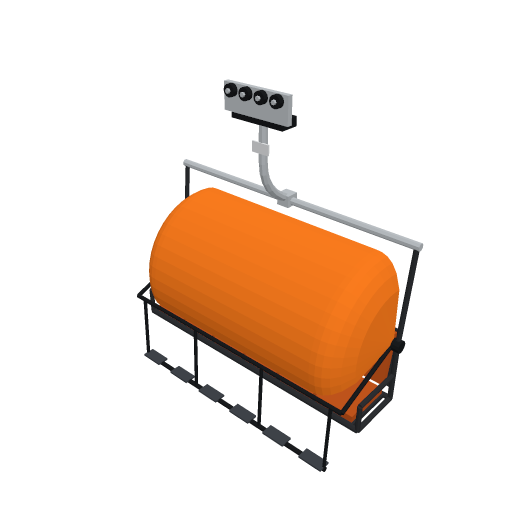
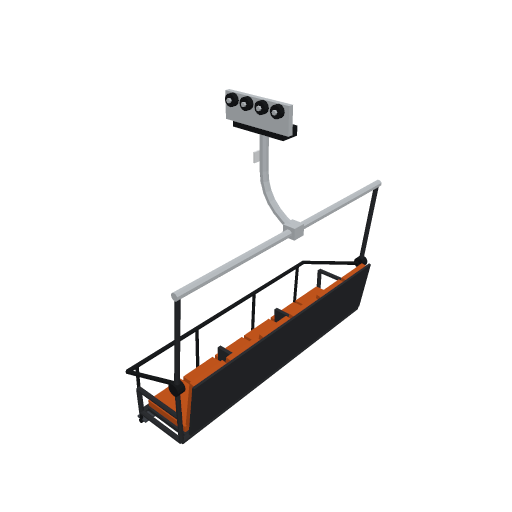
Chairlift chair: seats across the rope, open chair by default
The chair was drawn with its seat row along the rope, a quarter turn out in
the game and the line preview. The chair and its hanger are now turned by
CHAIR_TURN so the riders face the travel (-x) and the seats line up across
the rope; the grip stays along it. The full model and the LOD both turn.
The default cover is now the open chair; the bubble stays a variant.

Regression test in test/chairlift.test.ts; the station test now expects the
wide chair to wait ahead of the wheel when it shuttles alone.

Claude-Session: https://claude.ai/code/session_01BW4qmUZf5drkEb4BvBWvz4

Changed region(s): [[0.25, 0.1562, 0.8438, 0.9375]]

diff --git a/generator/cableCabins.ts b/generator/cableCabins.ts
@@ -17,7 +17,8 @@
 //
 // The chairlift chair is a new design with no webapp reference: its rope runs
 // along x through the grip at y 3.60 and its seat top is at 0.62, whatever the
-// seat count or cover (CHAIR).
+// seat count or cover (CHAIR). Its seats run across the rope (along z), the
+// riders facing -x, the way the game carries a cabin (CHAIR_TURN).
 //
 // The tramway car is authored ACROSS its length (long axis z, the webapp's yaw
 // is 90); the gondola's rope runs along x (yaw 0). Units are metres; every
@@ -419,8 +420,11 @@ export function gondolaCabin(): MeshBuilder {
 // the chairlift chair
 
 /**
- * The chair's datums and frame, metres. The rope runs along x through the grip
- * at `rope`; the riders sit facing +z on cushions whose top is `seat`; `pitch`
+ * The chair's datums and frame, metres, as the chair is drawn: the riders sit
+ * facing +z on cushions whose top is `seat`, the seats side by side along x,
+ * and CHAIR_TURN then turns it a quarter so they face the travel. The grip on
+ * the rope is drawn in the model's own frame: the rope runs along x through it
+ * at `rope`. `pitch`
  * is the width of one seat place. The bubble cover turns about the pivot axis
  * (y, z) = (`pivotY`, `pivotZ`) and reaches `bubbleR` from it.
  */
@@ -441,6 +445,13 @@ export const CHAIR = {
   backZ: -0.3,
 };
 
+/**
+ * The chair's frame to the model's: a quarter turn about y that takes the riders'
+ * +z to -x, so they face the travel (the game runs a cabin with its +x along
+ * -travel) and the seats line up across the rope. A rotation: faces stay wound outward.
+ */
+export const CHAIR_TURN = ([x, y, z]: Vec3): Vec3 => [-z, y, x];
+
 /** The cover and seat colours of each `color` value: the photo's orange first. */
 const CHAIR_COLOURS: Record<string, { cover: string; seat: string }> = {
   orange: { cover: "#f0761c", seat: "#b8501a" },
@@ -457,8 +468,8 @@ export const CHAIRLIFT_PARAMS: readonly ParamSpec[] = [
     values: [{ value: "6", title: "Six-seater" }, { value: "4", title: "Four-seater" }, { value: "8", title: "Eight-seater" }],
   },
   {
-    name: "cover", title: "Cover", default: "bubble",
-    values: [{ value: "bubble", title: "Weather bubble" }, { value: "none", title: "Open chair" }],
+    name: "cover", title: "Cover", default: "none",
+    values: [{ value: "none", title: "Open chair" }, { value: "bubble", title: "Weather bubble" }],
   },
   {
     name: "color", title: "Colour", default: "orange",
@@ -588,7 +599,7 @@ function chairBody(m: MeshBuilder, seats: number, bubble: boolean): void {
 /** The hanger from the beam over the chair up to the detachable grip on the rope. */
 function chairHanger(m: MeshBuilder): void {
   const r = CHAIR.rope;
-  m.scope("arm", () => {
+  m.scope("arm", () => m.moved(CHAIR_TURN, () => {
     // straight down from the grip, then bent back over the riders' heads to the beam
     // (a quadratic curve from the vertical at y 3.0 to the beam, as six straight lengths)
     const top: [number, number] = [3.0, 0];
@@ -608,8 +619,8 @@ function chairHanger(m: MeshBuilder): void {
       bar(m, "steel", p, [0, q[1] + (q[1] - p[1]) * k, q[2] + (q[2] - p[2]) * k], 0.05, 8);
     }
     m.prism("steel", rect(0.16, 0.16, 0, CHAIR.beamZ), CHAIR.beamY - 0.06, CHAIR.beamY + 0.08);
-  });
-  m.scope("number plate", () => block(m, "white", -0.11, 0.11, 3.1, 3.22, 0.035, 0.055));
+  }));
+  m.scope("number plate", () => m.moved(CHAIR_TURN, () => block(m, "white", -0.11, 0.11, 3.1, 3.22, 0.035, 0.055)));
   m.scope("grip", () => {
     m.scope("body", () => block(m, "trim", -0.34, 0.34, r - 0.17, r - 0.065, -0.11, 0.11));
     m.scope("jaws", () => {
@@ -634,7 +645,7 @@ export function chairliftChair(params?: ParamValues): MeshBuilder {
     seat: { color: colours.seat, metallic: 0.02, roughness: 0.75 },
     frame: { color: "#2b2d30", metallic: 0.3, roughness: 0.5 },
   });
-  m.scope("body", () => chairBody(m, Number(p.seats), p.cover === "bubble"));
+  m.scope("body", () => m.moved(CHAIR_TURN, () => chairBody(m, Number(p.seats), p.cover === "bubble")));
   m.scope("hanger", () => chairHanger(m));
   return m;
 }
@@ -713,7 +724,7 @@ export function chairliftChairLod(params?: ParamValues): MeshBuilder {
       frame: { color: "#2b2d30", metallic: 0.3, roughness: 0.5 },
     },
     parts: [
-      { draw: (m) => {
+      { draw: (m) => m.moved(CHAIR_TURN, () => {
         // the seat and the backrest, the cushions' colour in front, the shell behind
         lodBlock(m, -hw, hw, frameY - 0.02, CHAIR.seat, backZ, frontZ, { side: "seat", bottom: "seat" });
         const b0: Vec3 = [0, CHAIR.seat + 0.03, backZ + 0.03];
@@ -726,16 +737,17 @@ export function chairliftChairLod(params?: ParamValues): MeshBuilder {
         lodBar(m, "steel", [-sx - 0.04, beamY, beamZ], [sx + 0.04, beamY, beamZ], 0.06, 3);
         lodBar(m, "steel", [0, CHAIR.rope - 0.14, 0], [0, 2.75, 0], 0.07, 3);
         lodBar(m, "steel", [0, 2.8, 0.03], [0, beamY, beamZ], 0.07, 3);
-        lodBlock(m, -0.42, 0.42, CHAIR.rope - 0.17, CHAIR.rope + 0.2, -0.11, 0.13, { side: "trim", bottom: "trim" });
         // the footrest, its underside on the ground line
         lodBar(m, "trim", [-hw + 0.1, 0.04 * Math.SQRT1_2, 0.66], [hw - 0.1, 0.04 * Math.SQRT1_2, 0.66], 0.04);
-      } },
-      { optional: 1, draw: (m) => {
+      }) },
+      // the grip, along the rope in the model's own frame
+      { draw: (m) => lodBlock(m, -0.42, 0.42, CHAIR.rope - 0.17, CHAIR.rope + 0.2, -0.11, 0.13, { side: "trim", bottom: "trim" }) },
+      { optional: 1, draw: (m) => m.moved(CHAIR_TURN, () => {
         // the safety bar across the laps and its arms to the pivots
         lodBar(m, "trim", [-hw, 0.9, 0.62], [hw, 0.9, 0.62], 0.04, 3);
         for (const s of [-1, 1]) lodBar(m, "trim", [s * hw, pivotY, pivotZ], [s * hw, 0.9, 0.62], 0.035, 3);
-      } },
-      ...(p.cover === "bubble" ? [{ draw: (m: MeshBuilder) => {
+      }) },
+      ...(p.cover === "bubble" ? [{ draw: (m: MeshBuilder) => m.moved(CHAIR_TURN, () => {
         // the bubble: three facets of its arc about the pivot, outside and in, and its two ends
         const angs = [100, 60, 20, -20].map((d) => (d * Math.PI) / 180);
         const x = hw + 0.02;
@@ -747,7 +759,7 @@ export function chairliftChairLod(params?: ParamValues): MeshBuilder {
           }
           for (const s of [-1, 1]) lodPolygon(m, "cover", [[s * (x + 0.03 * sgn), pivotY, pivotZ], ...angs.map((a) => pt(a, s * (x + 0.03 * sgn)))], [s * sgn, 0, 0]);
         }
-      } }] : []),
+      }) }] : []),
     ],
   });
 }

diff --git a/test/chairlift.test.ts b/test/chairlift.test.ts
@@ -30,7 +30,7 @@ const span = (ts: Tri[], axis: number): [number, number] => {
 };
 
 describe("the chairlift chair", () => {
-  it("is a parametric cable car design: seats 6/4/8, bubble/none, six colours", () => {
+  it("is a parametric cable car design: seats 6/4/8, an open chair or a bubble, six colours", () => {
     const d = DESIGNS.get(proceduralId(ID))!;
     expect(d.title).toBe("Chairlift Chair");
     expect(d.catalog).toEqual(CABLE_CABIN_CATALOG);
@@ -38,7 +38,7 @@ describe("the chairlift chair", () => {
     expect(d.finishParams).toEqual(["color"]);
     expect(CHAIRLIFT_PARAMS.map((p) => [p.name, p.default, p.values.map((v) => v.value)])).toEqual([
       ["seats", "6", ["6", "4", "8"]],
-      ["cover", "bubble", ["bubble", "none"]],
+      ["cover", "none", ["none", "bubble"]],
       ["color", "orange", ["orange", "blue", "red", "yellow", "green", "grey"]],
     ]);
     expect(paramCombinations(CHAIRLIFT_PARAMS)).toHaveLength(36);
@@ -64,8 +64,8 @@ describe("the chairlift chair", () => {
       const jaws = ts.filter((t) => t.material === "steel" && t.p.every((p) => Math.hypot(p[1] - CHAIR.rope, p[2]) < 0.07 && Math.abs(p[0]) < 0.31));
       const [y0, y1] = span(jaws, 1);
       expect((y0 + y1) / 2).toBeCloseTo(CHAIR.rope, 3);
-      // the cushions' tops: the highest seat-coloured horizontal faces in front of the backrests
-      const cushions = ts.filter((t) => t.material === "seat" && t.p.every((p) => p[2] > CHAIR.backZ + 0.03));
+      // the cushions' tops: the highest seat-coloured horizontal faces in front of the backrests (the riders face -x)
+      const cushions = ts.filter((t) => t.material === "seat" && t.p.every((p) => -p[0] > CHAIR.backZ + 0.03));
       expect(span(cushions, 1)[1]).toBeCloseTo(CHAIR.seat, 3);
       // it hangs from the rope: the footrest reaches down to the ground line
       const all = span(ts, 1);
@@ -74,16 +74,32 @@ describe("the chairlift chair", () => {
     }
   });
 
+  it("lines its seats up across the rope, the riders facing the travel (-x)", () => {
+    // regression: the chair was drawn with its seats along the rope, a quarter turn out
+    const ts = tris({ seats: "8" });
+    const seats = ts.filter((t) => t.material === "seat");
+    const [x0, x1] = span(seats, 0), [z0, z1] = span(seats, 2);
+    expect(z1 - z0).toBeGreaterThan(8 * CHAIR.pitch - 0.1);
+    expect(x1 - x0).toBeLessThan(1);
+    // the footrest and the safety bar lie ahead of the riders, the backrests behind them
+    const foot = ts.filter((t) => t.material === "gear");
+    expect(span(foot, 0)[0]).toBeLessThan(-0.3);
+    expect(span(seats, 0)[1]).toBeGreaterThan(0.2);
+    // the grip still runs along the rope (x)
+    const jaws = ts.filter((t) => t.material === "steel" && t.p.every((p) => Math.hypot(p[1] - CHAIR.rope, p[2]) < 0.07 && Math.abs(p[0]) < 0.31));
+    expect(span(jaws, 0)[1] - span(jaws, 0)[0]).toBeGreaterThan(0.4);
+  });
+
   it("grows across the rope with its seats; the bubble only adds the cover", () => {
     const width = (combo: ParamValues): number => {
       const s = glbStats(glb(combo));
-      return s.max[0] - s.min[0];
+      return s.max[2] - s.min[2];
     };
     expect(width({ seats: "4" })).toBeLessThan(width({ seats: "6" }));
     expect(width({ seats: "6" })).toBeLessThan(width({ seats: "8" }));
     expect(width({ seats: "6" }) - width({ seats: "4" })).toBeCloseTo(2 * CHAIR.pitch, 1);
     expect(tris({ cover: "none" }).some((t) => t.material === "cover")).toBe(false);
-    const withCover = tris({});
+    const withCover = tris({ cover: "bubble" });
     expect(withCover.some((t) => t.material === "cover")).toBe(true);
     expect(withCover.filter((t) => t.material !== "cover")).toHaveLength(tris({ cover: "none" }).length);
   });
@@ -94,6 +110,6 @@ describe("the chairlift chair", () => {
     for (const v of CHAIRLIFT_PARAMS.find((p) => p.name === "color")!.values) expect(shape({ color: v.value })).toEqual(base);
     const colourOf = (combo: ParamValues): string =>
       JSON.stringify(parseGlb(glb(combo)).json.materials!.find((m) => m.name === "cover")!.pbrMetallicRoughness!.baseColorFactor);
-    expect(colourOf({ color: "blue" })).not.toEqual(colourOf({}));
+    expect(colourOf({ cover: "bubble", color: "blue" })).not.toEqual(colourOf({ cover: "bubble" }));
   });
 });

diff --git a/test/cableCarStation.test.ts b/test/cableCarStation.test.ts
@@ -64,13 +64,15 @@ describe("cable car station types", () => {
 
   it("stops a big shuttling cabin ahead of the wheel, beside its platform's arms, and every other cabin at the wheel", () => {
     const stops = Object.fromEntries(CATALOG_VIEWS.map(([n, v]) => [n, cabinStop(v)]));
-    for (const n of ["proc-vehicle-titlis-rotair shuttle", "proc-vehicle-vanoise-express shuttle", "proc-vehicle-stanserhorn-cabrio shuttle", "proc-vehicle-roosevelt-island-tram shuttle", "proc-vehicle-sugarloaf-bondinho shuttle"]) {
+    for (const n of ["proc-vehicle-titlis-rotair shuttle", "proc-vehicle-vanoise-express shuttle", "proc-vehicle-stanserhorn-cabrio shuttle", "proc-vehicle-roosevelt-island-tram shuttle", "proc-vehicle-sugarloaf-bondinho shuttle",
+      // the chair's seats run across the rope: wider than the ring, it waits ahead of the wheel when it shuttles
+      "proc-vehicle-chairlift-chair shuttle"]) {
       const v = CATALOG_VIEWS.find(([x]) => x === n)![1];
       expect(stops[n]).toBeCloseTo(v.halfLength! + 1, 9);
       // the arms reach past the stopped cabin's nose
       expect(platformFront(v)).toBeGreaterThan(stops[n]! + v.halfLength!);
     }
-    for (const n of ["proc-vehicle-gondola-cabin shuttle", "proc-vehicle-doppelmayr-omega ring", "proc-vehicle-poma-funitel ring", "proc-vehicle-chairlift-chair shuttle", "proc-vehicle-peak-2-peak shuttle"]) expect(stops[n]).toBe(0);
+    for (const n of ["proc-vehicle-gondola-cabin shuttle", "proc-vehicle-doppelmayr-omega ring", "proc-vehicle-poma-funitel ring", "proc-vehicle-chairlift-chair ring", "proc-vehicle-peak-2-peak shuttle"]) expect(stops[n]).toBe(0);
   });
 
   it("gives the wheel a rim per haul rope: one for a gondola, two coaxial ones for the funitel, one under a tram's track ropes", () => {

diff --git a/docs/models/cable-cabins.md b/docs/models/cable-cabins.md
@@ -104,13 +104,17 @@ interior benches and skid bars are left out (the glass is opaque).
 
 A detachable chair of the kind in the user's photo (`assets/chairlift/`):
 orange tinted weather bubbles over six-seat chairs, a curved hanger, a grip
-running on small rollers. The rope runs along **x** (yaw 0, like the gondola);
-the riders face **+z**. Parameters (defaults first), 36 variants:
+running on small rollers. The rope runs along **x** (yaw 0, like the gondola)
+through the grip; the seats line up across it (along **z**) and the riders face
+**-x**, the travel, as the game carries a cabin with its +x along -travel. The
+chair and its hanger are drawn with the riders facing +z (the `CHAIR` datums)
+and turned a quarter by `CHAIR_TURN`; the grip is drawn in the model's frame.
+Parameters (defaults first), 36 variants:
 
 | parameter | values | what changes |
 |---|---|---|
 | `seats` | `6`, `4`, `8` | the chair's width: 0.53 m a place, 2.12 / 3.18 / 4.24 m of seats; the photo's six-seater is the default |
-| `cover` | `bubble`, `none` | the closed weather bubble, or an open chair (the frame, safety bar and footrest stay) |
+| `cover` | `none`, `bubble` | an open chair (the default), or the closed weather bubble of the photo; the frame, safety bar and footrest stay either way |
 | `color` | `orange`, `blue`, `red`, `yellow`, `green`, `grey` | finish only: the bubble and, a shade darker, the cushions |
 
 - **Seat** - a dark seat pan between a front and a rear cross tube, a cushion
@@ -120,10 +124,10 @@ the riders face **+z**. Parameters (defaults first), 36 variants:
   bubble's pivot hub to the seat and forward into an armrest loop; the steel
   top beam joins the two over the backrest.
 - **Safety bar and footrest** - the bar lies along the bubble's lower edge
-  (y 0.90, z 0.62) on arms from the pivot hubs; links drop from it to the
+  (y 0.90, 0.62 m ahead of the seats) on arms from the pivot hubs; links drop from it to the
   footrest bar (underside at y 0) with a footplate per place.
 - **Bubble** - a 2.5 cm shell on an arc of radius 0.95 m about the pivot axis
-  (y 1.25, z -0.30), from 100 degrees (just behind the top) to -20 degrees (the
+  (y 1.25, 0.30 m behind the seat front datum), from 100 degrees (just behind the top) to -20 degrees (the
   riders' laps), straight across the seats and closing to the hubs in
   superelliptic domes 0.42 m long. Opaque tinted colour, as the factory has no
   transparent materials; it is drawn closed, as in the photo.
